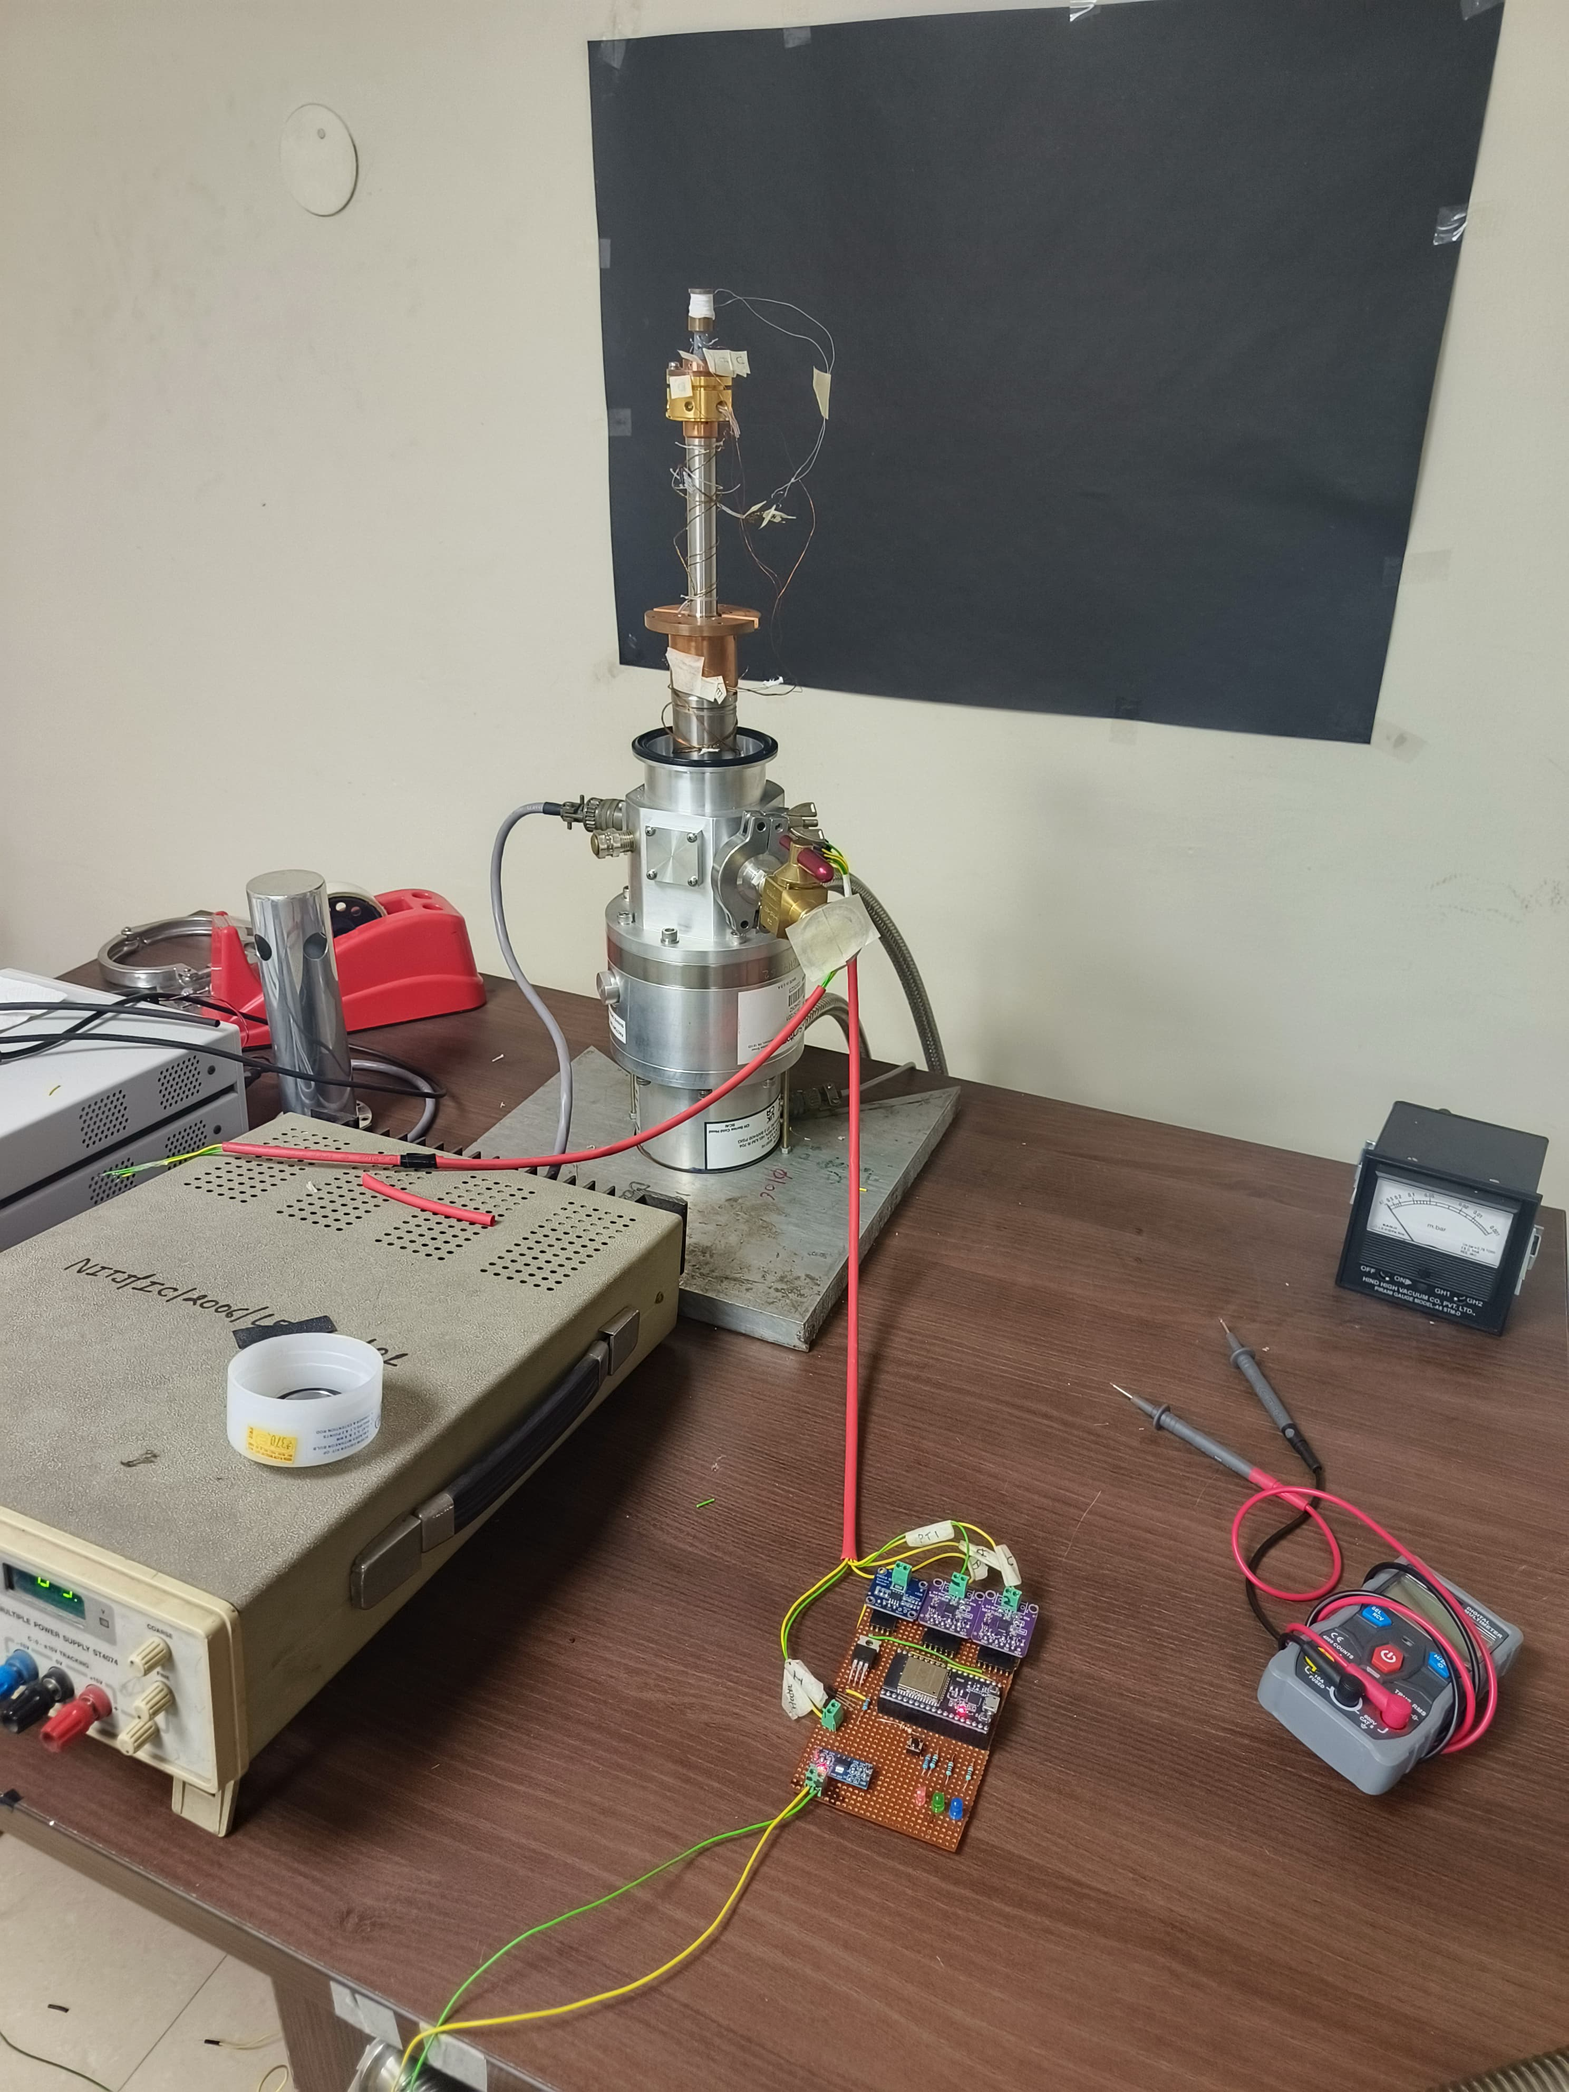
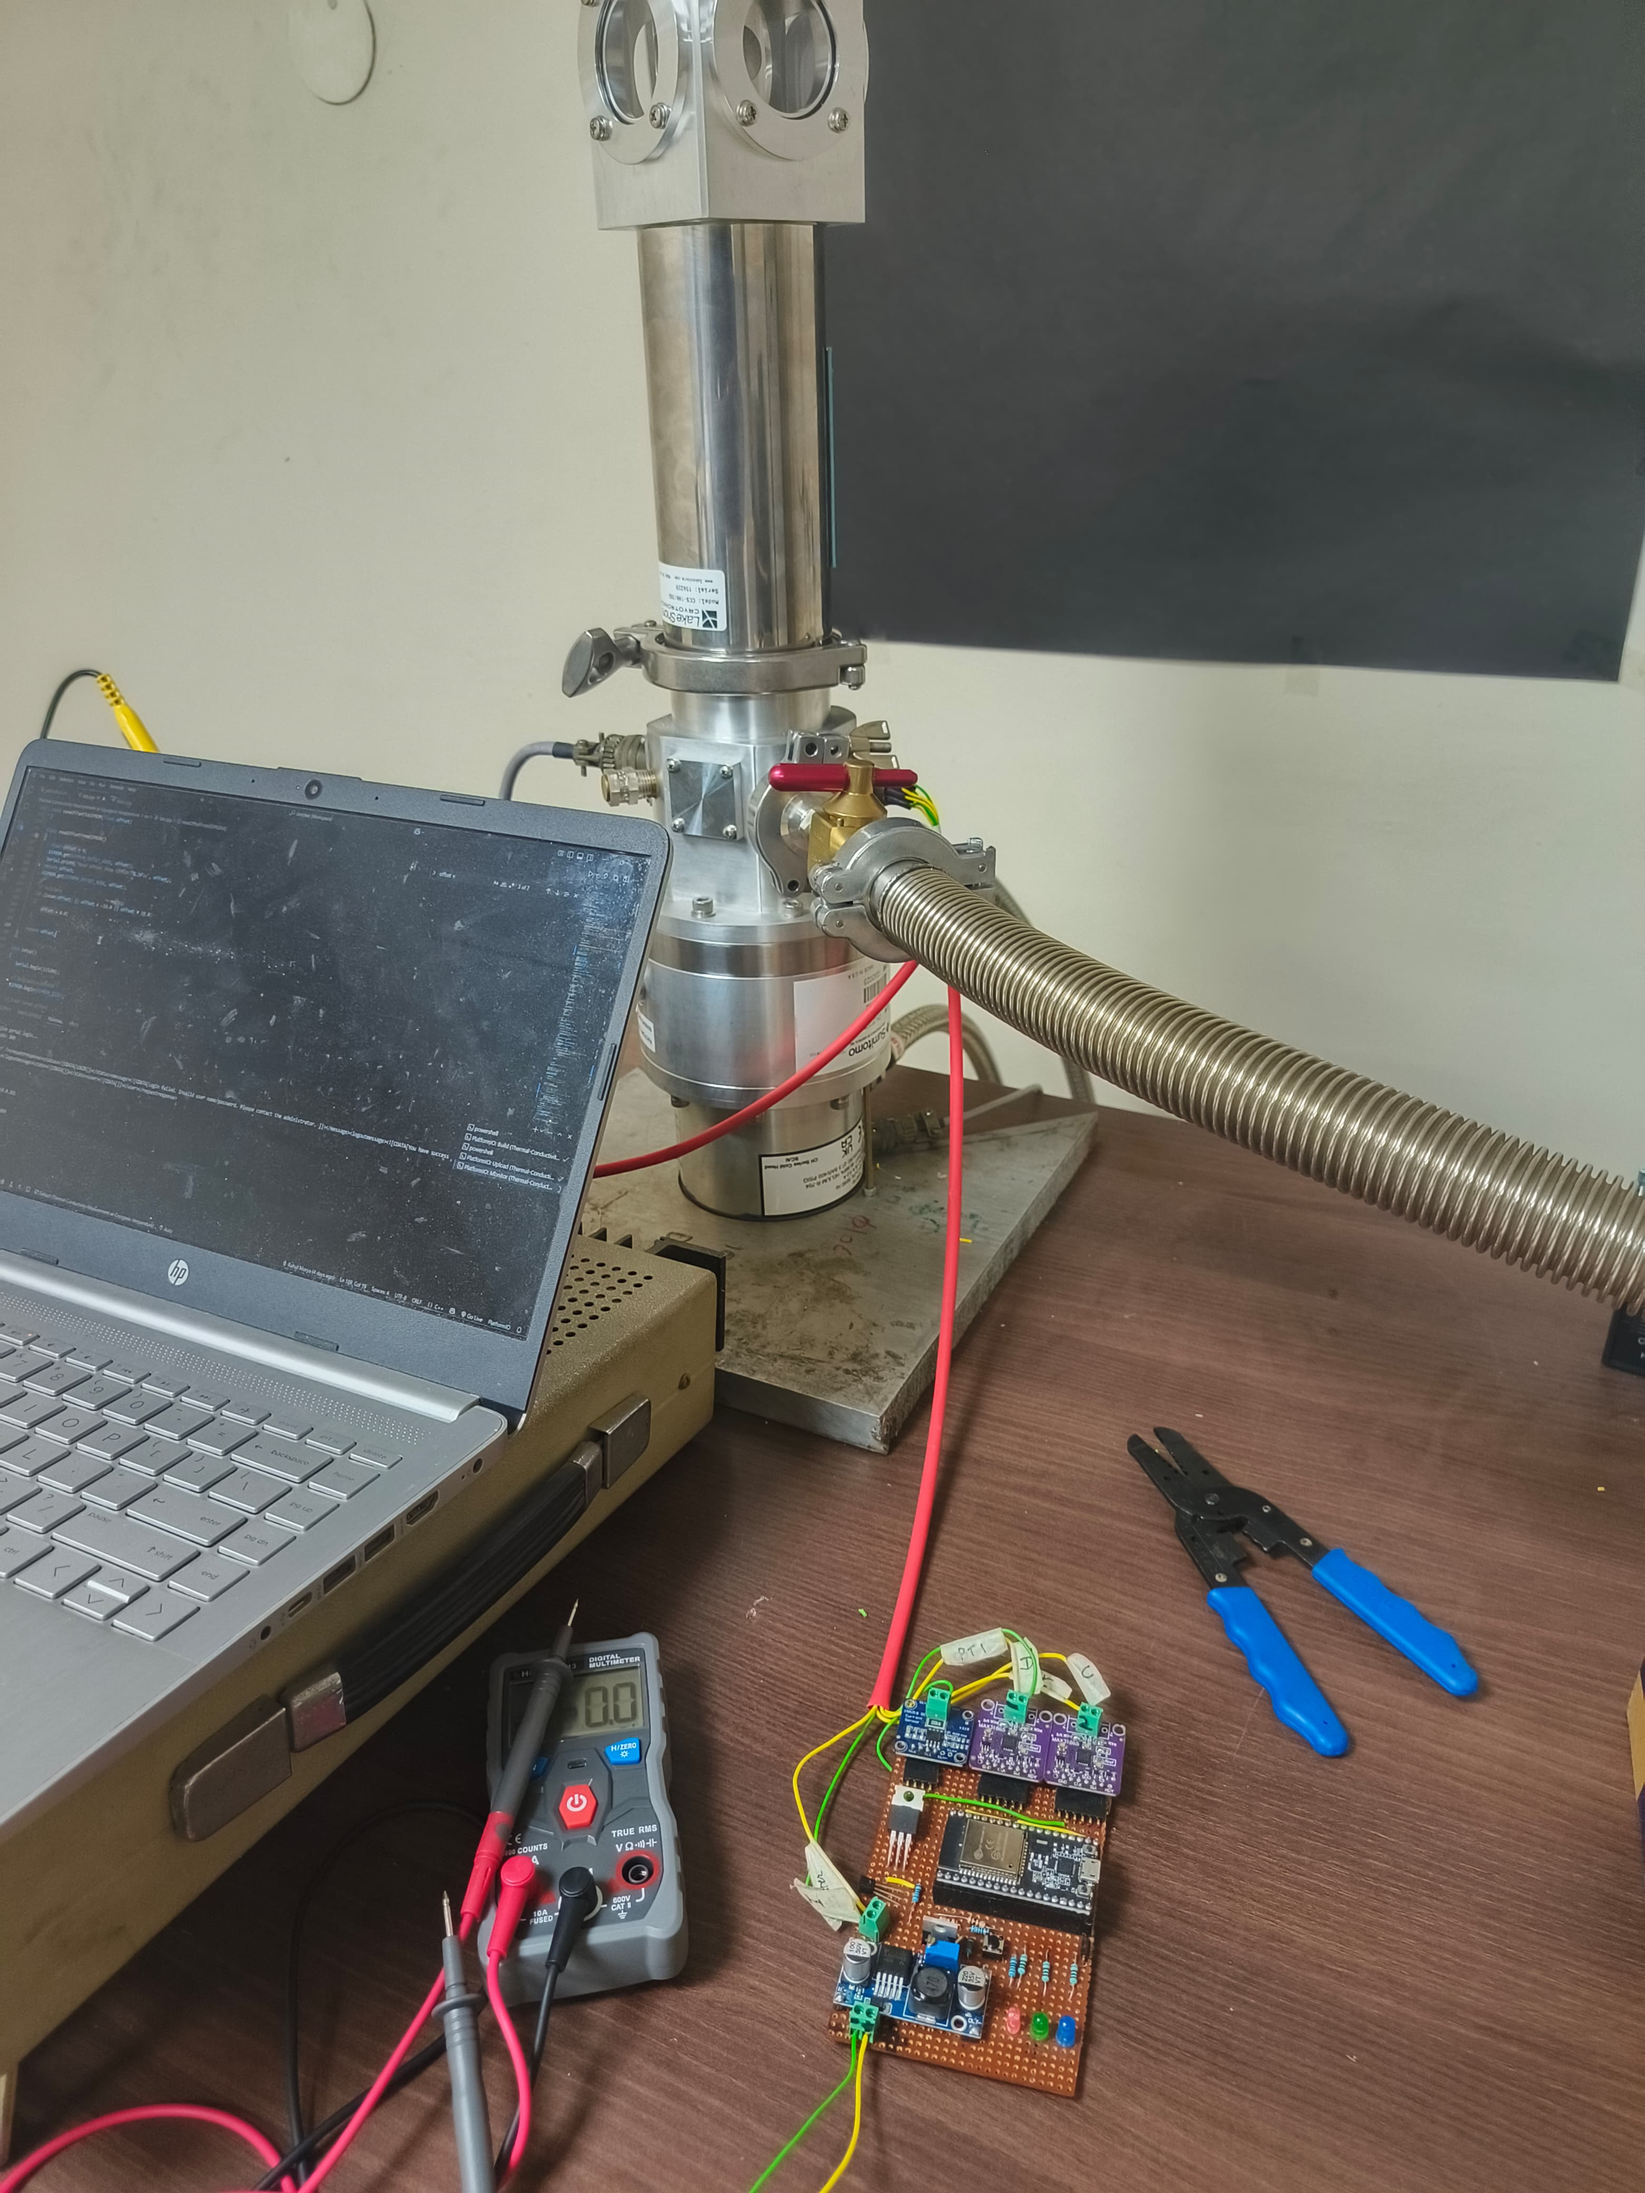
Improved Hardware Image + Updated Code

diff --git a/README.md b/README.md
@@ -5,6 +5,9 @@ A microcontroller-based system for calculating thermal conductivity of materials
 ---
 
 ![Hardware](hardware-setup/Hardware.jpg)
+---
+
+![Hardware](hardware-setup/Hardware1.jpg)
 
 ---
 
